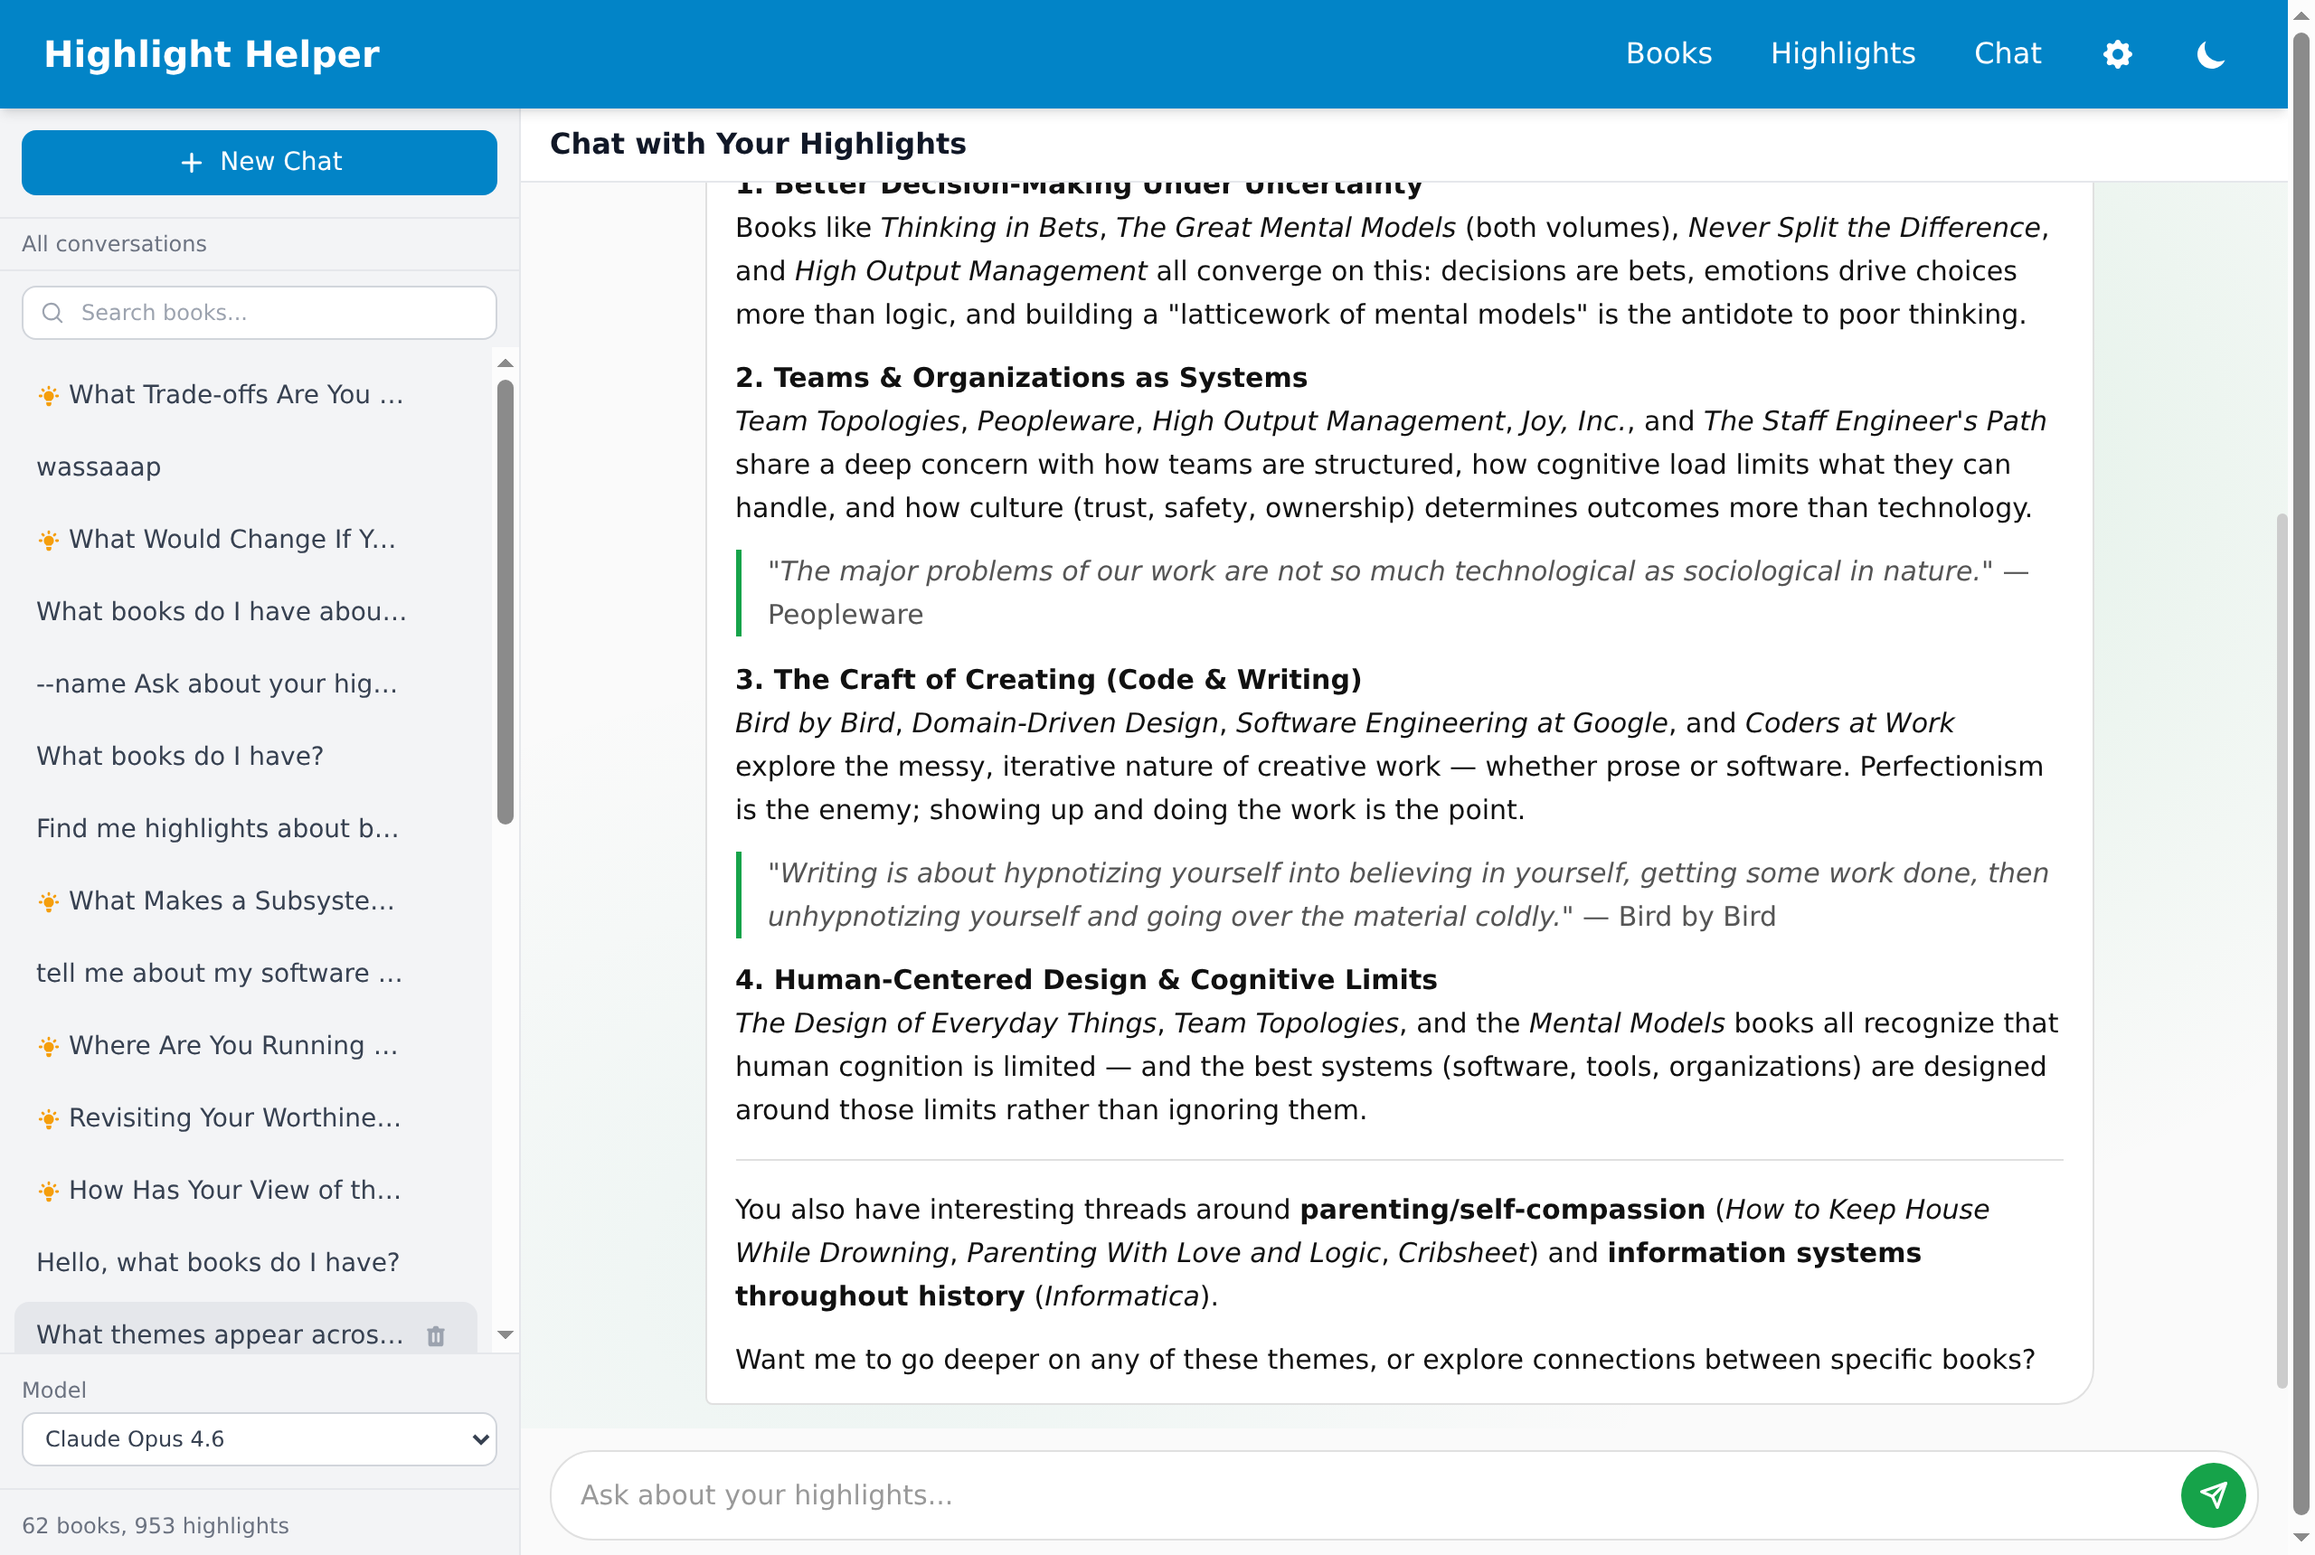
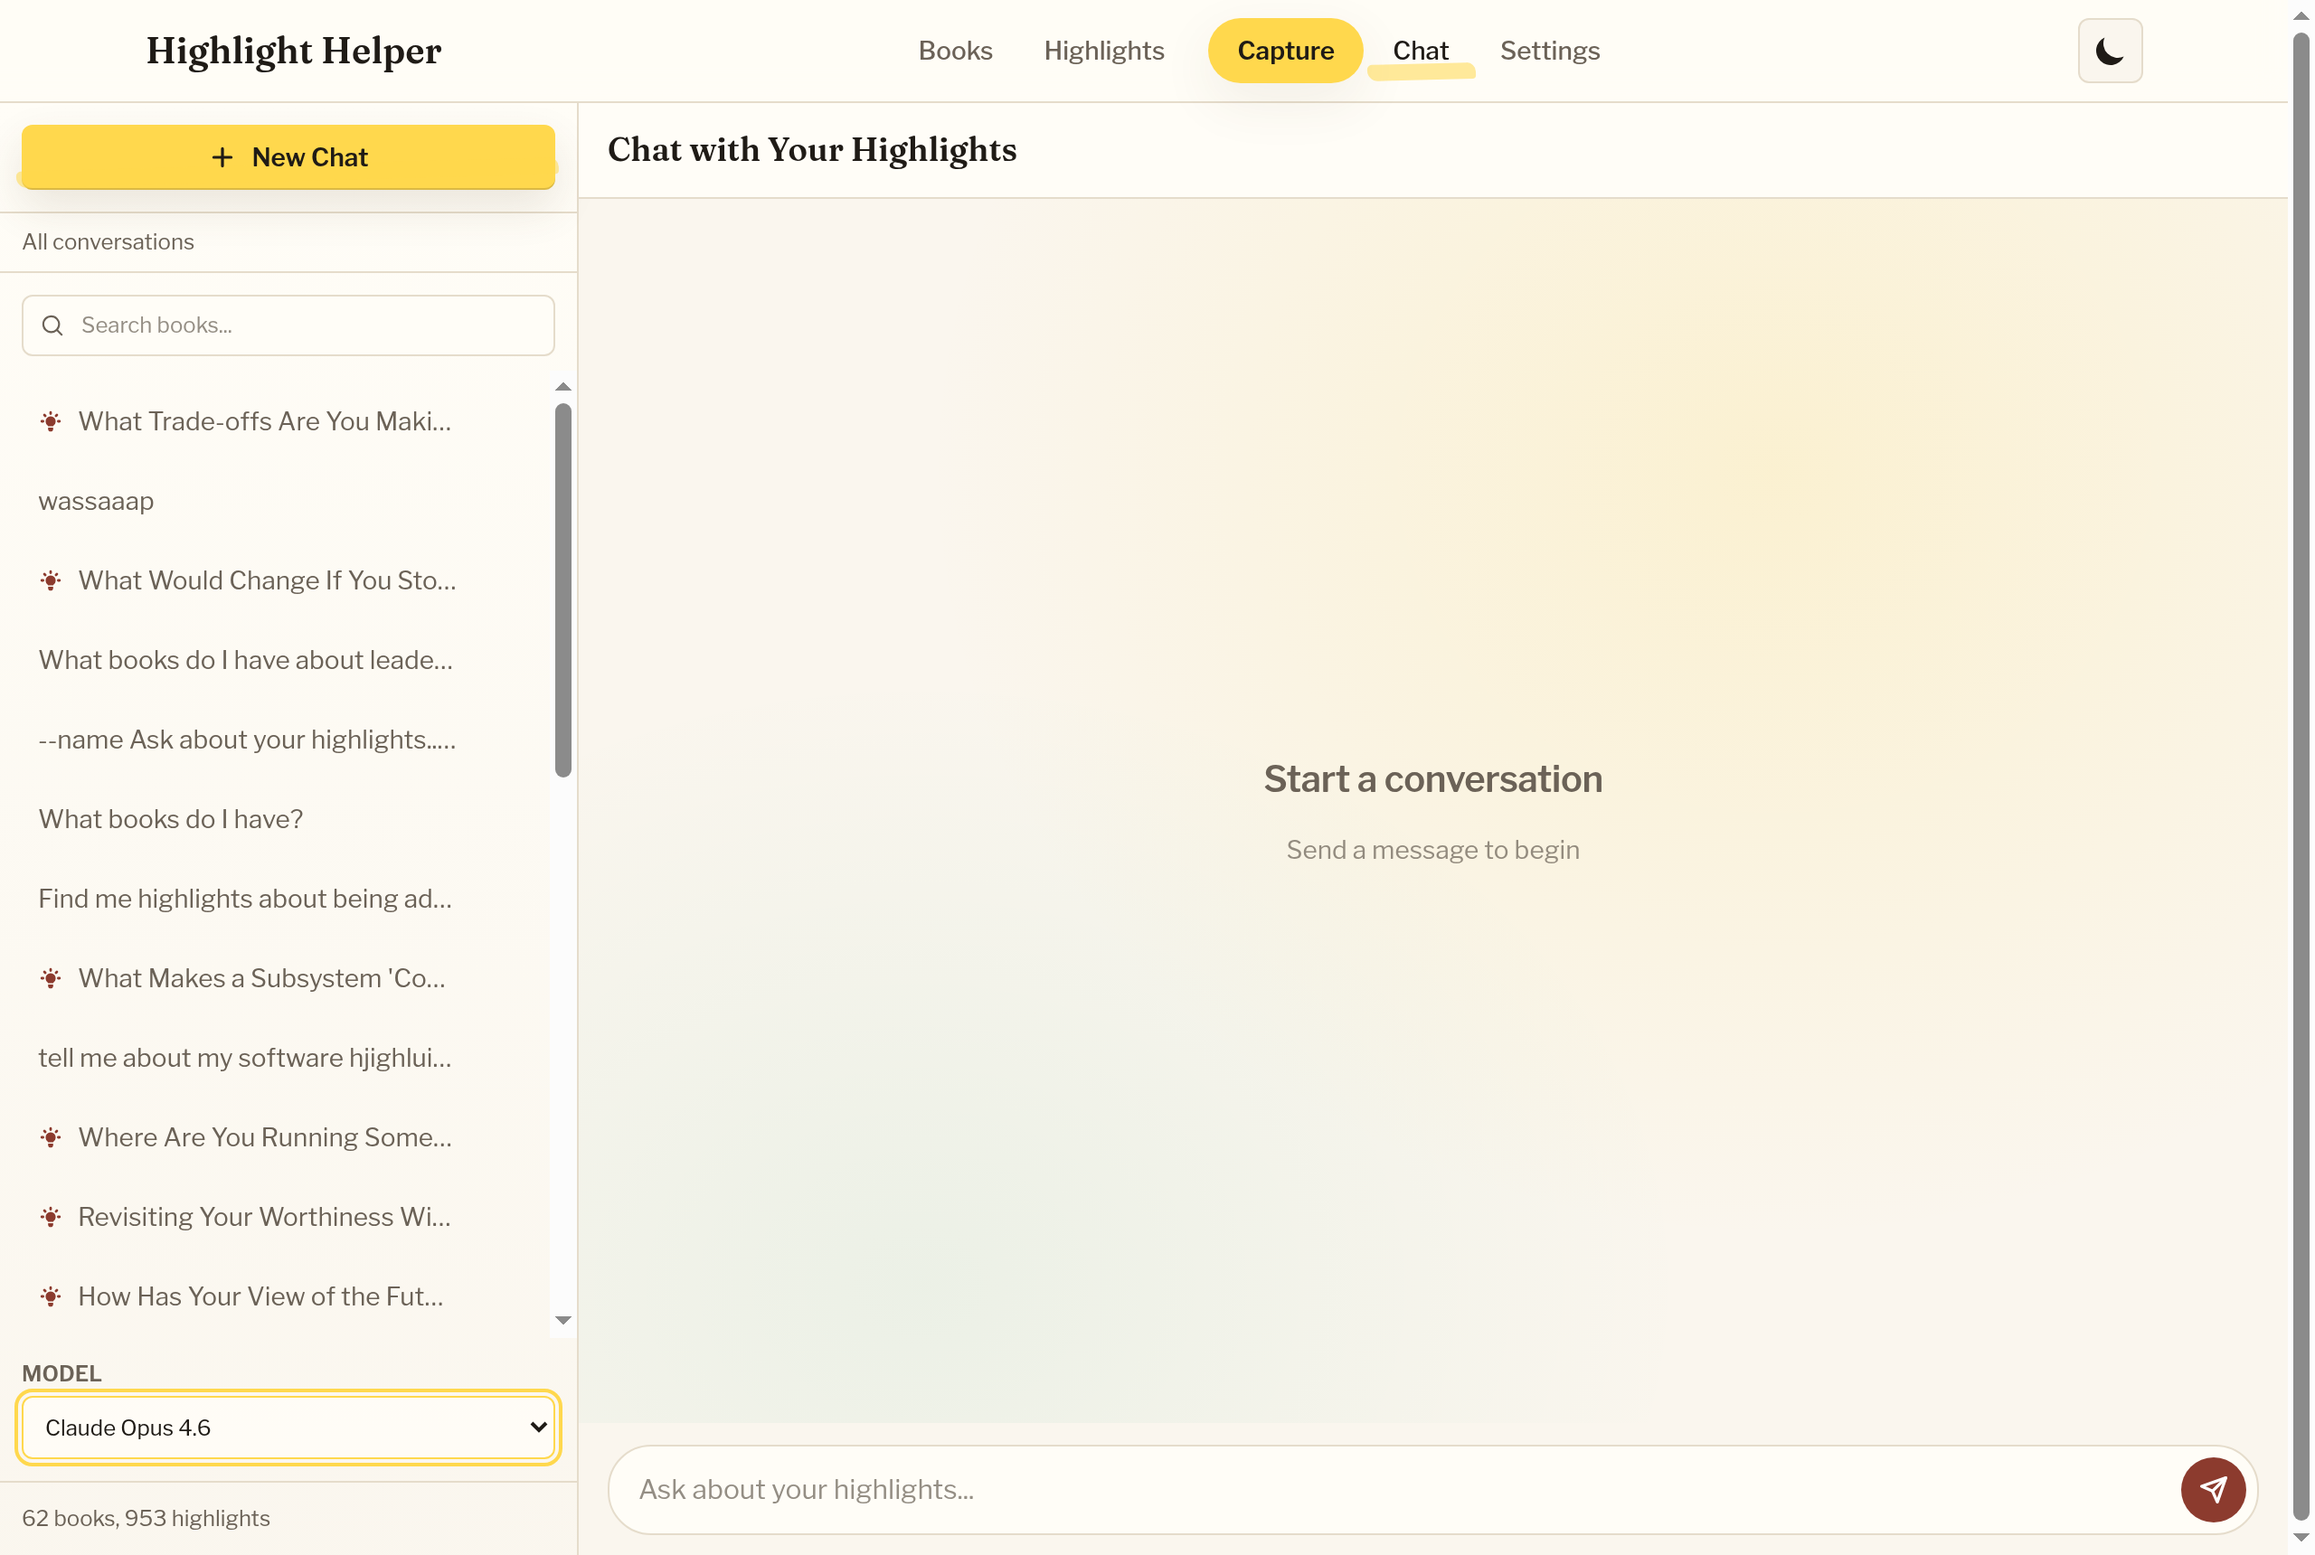
docs: README + screenshots for the Reading Room redesign; charter status

diff --git a/README.md b/README.md
@@ -7,9 +7,13 @@ Photograph a marked-up book page; get the exact highlighted passage back, verbat
 
 Highlight Helper is a mobile-first web app for capturing highlights from physical books. Take a photo of a page you've marked with a highlighter or pen, and a vision model transcribes the page, finds the marked passage, and drops you into an editor where the selection is already made — adjusting it is usually a confirmation, not a repair job.
 
-![The interactive editor: extracted page text with the highlighted passage pre-selected, drag handles, honest confidence badge, auto-detected page number, and one-click re-extraction](static/screenshots/highlight-editor.png)
+![The interactive editor: extracted page text with the marked passage pre-selected as real marker strokes, drag handles, honest confidence and match chips, and a sticky save bar](static/screenshots/highlight-editor.png)
 
 ## The core loop
+
+Capture is one thumb-tap from anywhere: the mobile bottom bar's center button opens a photo-first flow — pick the page while the book is still open, then tell it which book.
+
+![The capture page: photo first, book second, with starred and recent books up top](static/screenshots/capture.png)
 
 1. **Snap a photo** of the page (photos are downscaled client-side before upload, so it's fast on a phone).
 2. **The vision pipeline** (OpenAI via DSPy) transcribes the full page, identifies the highlighted/underlined/marked portion — or follows a natural-language instruction like *"the sentence about trade-offs"* — and locates its exact character span in the page text.

diff --git a/docs/decisions/2026-07-13-redesign-charter.md b/docs/decisions/2026-07-13-redesign-charter.md
@@ -119,3 +119,12 @@ Implement as Jinja2 macros/partials in `app/templates/components/` where repetit
    metrics + pagination; (d) chat wrapper.
 3. **Polish**: cross-surface consistency sweep, motion, empty states, screenshot review in
    both themes at 390px and 1280px.
+
+## Status: shipped 2026-07-14
+
+Deployed to production after phases 1-3 + polish; all gates green (492 unit/integration,
+27 E2E incl. deliberate `# redesign:` test updates, selftest). Chatkit gained a themable
+user-bubble gradient (`--ck-accent-2`, chatkit commit 9040f49, re-vendored). Known
+leftovers, deliberately unshipped: redundant uppercase eyebrows on edit_highlight.html /
+add_book.html (same pattern as the fixed add_highlight one); "PHASE 1" appears in both
+the pill and the card eyebrow on add_highlight. Cosmetic only.
